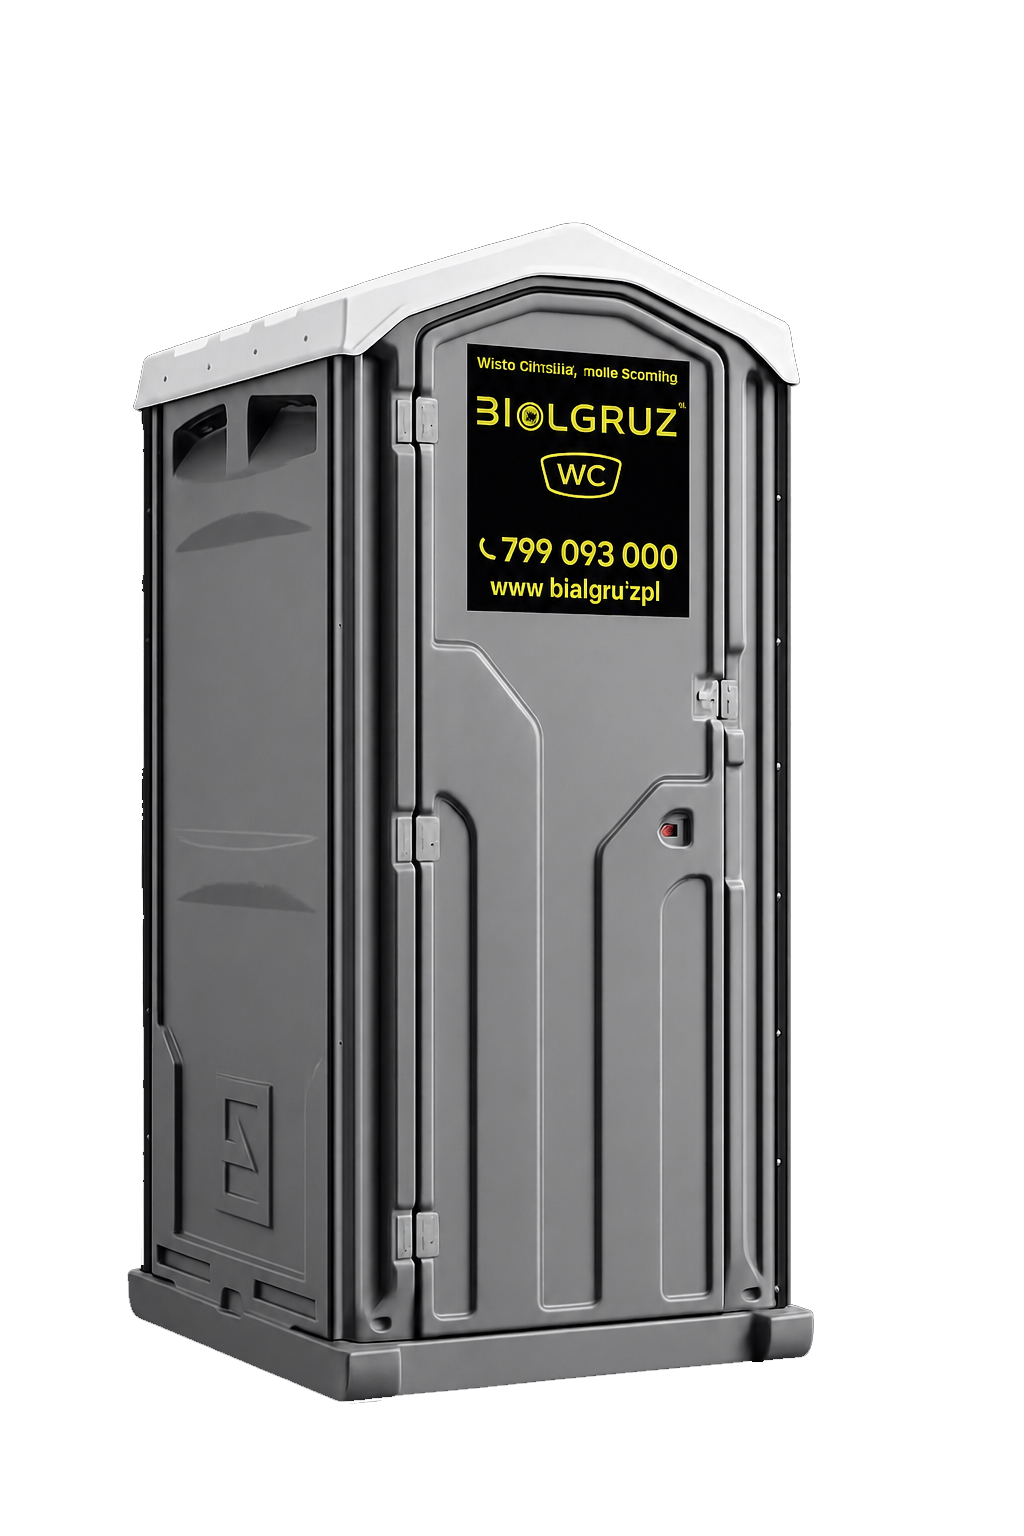
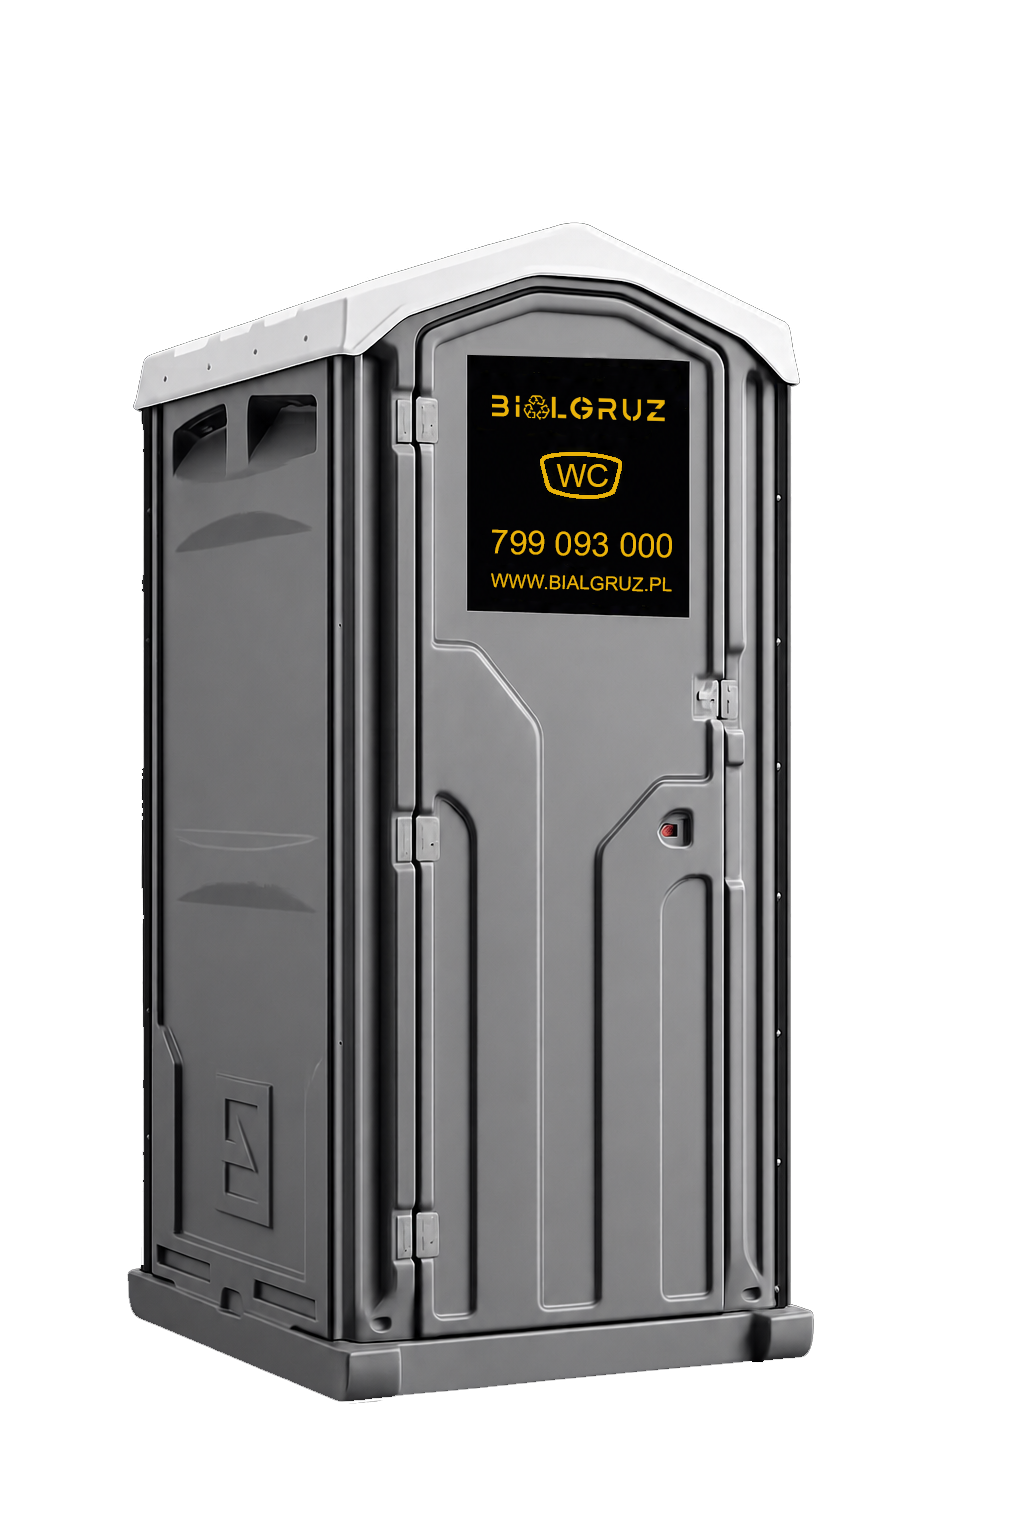
zmiana docx na pdf

Changed region(s): [[0.4375, 0.2188, 0.6562, 0.4062]]

diff --git a/components/umowaPdf.js b/components/umowaPdf.js
@@ -1,0 +1,118 @@
+// Wypełnia szablon /Umowa.html danymi i generuje PDF przez jsPDF (jak w panelu — z fontem DejaVu,
+// polskie znaki OK, tekst zaznaczalny). Bez html2canvas (to dawało pustą stronę).
+export async function downloadUmowaPdf(data, filename = "umowa-BIALGRUZ.pdf") {
+  const raw = await (await fetch("/Umowa.html")).text();
+  const filled = raw.replace(/\{\{(\w+)\}\}/g, (_, k) => (data[k] != null ? data[k] : ""));
+  const parsed = new DOMParser().parseFromString(filled, "text/html");
+  const container = parsed.querySelector(".page-container") || parsed.body;
+
+  const { jsPDF } = await import("jspdf");
+  const doc = new jsPDF({ unit: "pt", format: "a4" });
+
+  // Font Unicode (polskie znaki)
+  try {
+    const buf = await (await fetch("/fonts/DejaVuSans.ttf")).arrayBuffer();
+    let bin = "";
+    const bytes = new Uint8Array(buf);
+    for (let i = 0; i < bytes.length; i++) bin += String.fromCharCode(bytes[i]);
+    doc.addFileToVFS("DejaVuSans.ttf", btoa(bin));
+    doc.addFont("DejaVuSans.ttf", "DejaVu", "normal");
+    doc.setFont("DejaVu", "normal");
+  } catch (e) {
+    console.error("Font PDF nie załadowany:", e);
+  }
+
+  const margin = 42;
+  const pageW = doc.internal.pageSize.getWidth();
+  const pageH = doc.internal.pageSize.getHeight();
+  const maxW = pageW - margin * 2;
+  let y = margin;
+
+  const ensure = (h) => {
+    if (y + h > pageH - margin) {
+      doc.addPage();
+      y = margin;
+    }
+  };
+
+  const write = (text, { size = 10, gapAfter = 6, align = "left", color = [44, 62, 80], indent = 0 } = {}) => {
+    const t = (text || "").replace(/\s+/g, " ").trim();
+    if (!t) return;
+    doc.setFontSize(size);
+    doc.setTextColor(color[0], color[1], color[2]);
+    const lines = doc.splitTextToSize(t, maxW - indent);
+    const x = align === "right" ? pageW - margin : align === "center" ? pageW / 2 : margin + indent;
+    const lh = size * 1.4;
+    for (const line of lines) {
+      ensure(lh);
+      doc.text(line, x, y, { align });
+      y += lh;
+    }
+    y += gapAfter;
+  };
+
+  const cl = (el) => (typeof el.className === "string" ? el.className : "");
+
+  for (const el of Array.from(container.children)) {
+    const c = cl(el);
+    const tag = el.tagName;
+
+    if (c.includes("header-container")) {
+      write(el.querySelector("h1")?.textContent, { size: 16, gapAfter: 4, align: "center", color: [26, 37, 47] });
+      write(el.querySelector(".subtitle")?.textContent, { size: 9, gapAfter: 14, align: "center", color: [127, 140, 141] });
+      continue;
+    }
+    if (c.includes("date-container")) {
+      write(el.textContent, { size: 10, align: "right", gapAfter: 12 });
+      continue;
+    }
+    if (c.includes("party-card")) {
+      // każdy wiersz (rozdzielony <br>) osobno
+      const html = el.innerHTML.replace(/<br\s*\/?>/gi, "\n");
+      const tmp = parsed.createElement("div");
+      tmp.innerHTML = html;
+      const text = tmp.textContent;
+      text.split("\n").forEach((line) => write(line, { size: 10, gapAfter: 2 }));
+      y += 8;
+      continue;
+    }
+    if (c.includes("section-title")) {
+      ensure(24);
+      y += 8;
+      write(el.textContent, { size: 11.5, gapAfter: 6, color: [26, 37, 47] });
+      continue;
+    }
+    if (c.includes("note")) {
+      write(el.textContent, { size: 8.5, gapAfter: 6, color: [90, 90, 90] });
+      continue;
+    }
+    if (tag === "P") {
+      write(el.textContent, { size: 10, gapAfter: 6 });
+      continue;
+    }
+    if (tag === "UL" || tag === "OL") {
+      Array.from(el.querySelectorAll(":scope > li")).forEach((li) =>
+        write("•  " + li.textContent, { size: 10, gapAfter: 3, indent: 14 })
+      );
+      y += 4;
+      continue;
+    }
+    if (tag === "TABLE" && c.includes("signatures")) {
+      ensure(70);
+      y += 34;
+      const half = maxW / 2;
+      doc.setFontSize(10);
+      doc.setTextColor(52, 73, 94);
+      doc.text("__________________________", margin, y);
+      doc.text("__________________________", margin + half, y);
+      y += 16;
+      doc.text("Zleceniobiorca", margin + 50, y);
+      doc.text("Zleceniodawca", margin + half + 50, y);
+      y += 20;
+      continue;
+    }
+    write(el.textContent, { size: 10, gapAfter: 6 });
+  }
+
+  doc.save(filename);
+}

diff --git a/components/OrderForm.jsx b/components/OrderForm.jsx
@@ -7,6 +7,7 @@ import LegalModal from "./LegalModal";
 import Regulamin from "@/Components2/Regulamin";
 import RegulaminUslug from "@/Components2/RegulaminUslug";
 import Rodo from "./Rodo";
+import { downloadUmowaPdf } from "./umowaPdf";
 
 /* ── Pricing data ── */
 const SERVICES = {
@@ -530,11 +531,10 @@ export default function OrderForm({ mode = "kontenery" }) {
     setEstimatedPrice(500);
   }
 
-  // Wypełnij szablon umowy danymi z formularza i pobierz jako DOCX
+  // Wypełnij szablon umowy danymi z formularza i pobierz jako PDF
   async function downloadUmowa() {
     setUmowaLoading(true);
     try {
-      const html = await (await fetch("/Umowa.html")).text();
       const qty = Math.max(1, parseInt(fields.quantity, 10) || 1);
       const meta = CONTRACT_META[currentType] || {};
       const start = fields.date ? new Date(fields.date) : null;
@@ -565,20 +565,10 @@ export default function OrderForm({ mode = "kontenery" }) {
         cena_laczna: String(laczna),
       };
 
-      const filled = html.replace(/\{\{(\w+)\}\}/g, (_, k) => (data[k] != null ? data[k] : ""));
-      const { asBlob } = await import("html-docx-js/dist/html-docx");
-      const blob = asBlob(filled);
-      const url = URL.createObjectURL(blob);
-      const a = document.createElement("a");
-      a.href = url;
-      a.download = "umowa-BIALGRUZ.docx";
-      document.body.appendChild(a);
-      a.click();
-      a.remove();
-      URL.revokeObjectURL(url);
+      await downloadUmowaPdf(data, "umowa-BIALGRUZ.pdf");
     } catch (err) {
       console.error("Błąd generowania umowy:", err);
-      setSubmitError("Nie udało się wygenerować umowy DOCX.");
+      setSubmitError("Nie udało się wygenerować umowy PDF.");
     } finally {
       setUmowaLoading(false);
     }
@@ -956,7 +946,7 @@ export default function OrderForm({ mode = "kontenery" }) {
                       disabled={umowaLoading}
                       className="inline-flex items-center gap-2 rounded-full border border-[#2a2b30] px-5 py-3 font-display text-[13px] font-bold uppercase tracking-[0.3px] text-[#f0ede8] transition-all hover:border-gold hover:text-gold disabled:cursor-not-allowed disabled:opacity-60"
                     >
-                      {umowaLoading ? "Generowanie…" : "⬇ Pobierz umowę (DOCX)"}
+                      {umowaLoading ? "Generowanie…" : "⬇ Pobierz umowę (PDF)"}
                     </button>
                   )}
                 </div>

diff --git a/components/AdminPanel.jsx b/components/AdminPanel.jsx
@@ -2,7 +2,8 @@
 
 import { useCallback, useEffect, useMemo, useState } from "react";
 import { supabase } from "./supabaseClient";
-import { FaEdit, FaTrash, FaSort, FaSortUp, FaSortDown, FaFilePdf, FaFileWord, FaSignOutAlt } from "react-icons/fa";
+import { FaEdit, FaTrash, FaSort, FaSortUp, FaSortDown, FaFilePdf, FaFileContract, FaSignOutAlt } from "react-icons/fa";
+import { downloadUmowaPdf } from "./umowaPdf";
 
 /* ── Style tokens (spójne z formularzem zamówień) ── */
 const inputCls =
@@ -210,9 +211,8 @@ export default function AdminPanel({ onLogout, table = "Zamówienia", title = "P
     doc.save(`zlecenie_${order?.numerZlecenia || order?.id || "pdf"}.pdf`);
   };
 
-  // Umowa DOCX wypełniona danymi zamówienia (ten sam szablon co w formularzu)
+  // Umowa PDF wypełniona danymi zamówienia (ten sam szablon co w formularzu)
   const handleDownloadUmowa = async (order) => {
-    const html = await (await fetch("/Umowa.html")).text();
     const plDate = (v) => (v ? new Date(v).toLocaleDateString("pl-PL") : "");
     const ru = order.rodzajuslugi || "";
     const typ = /umywalk/i.test(ru) ? "Z umywalką" : /standard/i.test(ru) ? "Standardowa" : /pakiet/i.test(ru) ? "wg pakietu" : "";
@@ -251,16 +251,7 @@ export default function AdminPanel({ onLogout, table = "Zamówienia", title = "P
       cena_laczna: order.szacowany || "",
     };
 
-    const filled = html.replace(/\{\{(\w+)\}\}/g, (_, k) => (data[k] != null ? data[k] : ""));
-    const { asBlob } = await import("html-docx-js/dist/html-docx");
-    const url = URL.createObjectURL(asBlob(filled));
-    const a = document.createElement("a");
-    a.href = url;
-    a.download = `umowa_${order.numerZlecenia || order.id}.docx`;
-    document.body.appendChild(a);
-    a.click();
-    a.remove();
-    URL.revokeObjectURL(url);
+    await downloadUmowaPdf(data, `umowa_${order.numerZlecenia || order.id}.pdf`);
   };
 
   const fmtCell = (order, field) => {
@@ -357,7 +348,7 @@ export default function AdminPanel({ onLogout, table = "Zamówienia", title = "P
                     <button onClick={() => setDeleteTarget(order.id)} className="text-[#f04a4a] transition-colors hover:text-white" title="Usuń"><FaTrash /></button>
                     <button onClick={() => handleDownloadPdf(order)} className="text-[#7a7a82] transition-colors hover:text-gold" title="Pobierz PDF"><FaFilePdf /></button>
                     {showUmowa && (
-                      <button onClick={() => handleDownloadUmowa(order)} className="text-[#7a7a82] transition-colors hover:text-gold" title="Pobierz umowę (DOCX)"><FaFileWord /></button>
+                      <button onClick={() => handleDownloadUmowa(order)} className="text-[#7a7a82] transition-colors hover:text-gold" title="Pobierz umowę (PDF)"><FaFileContract /></button>
                     )}
                   </div>
                 </td>